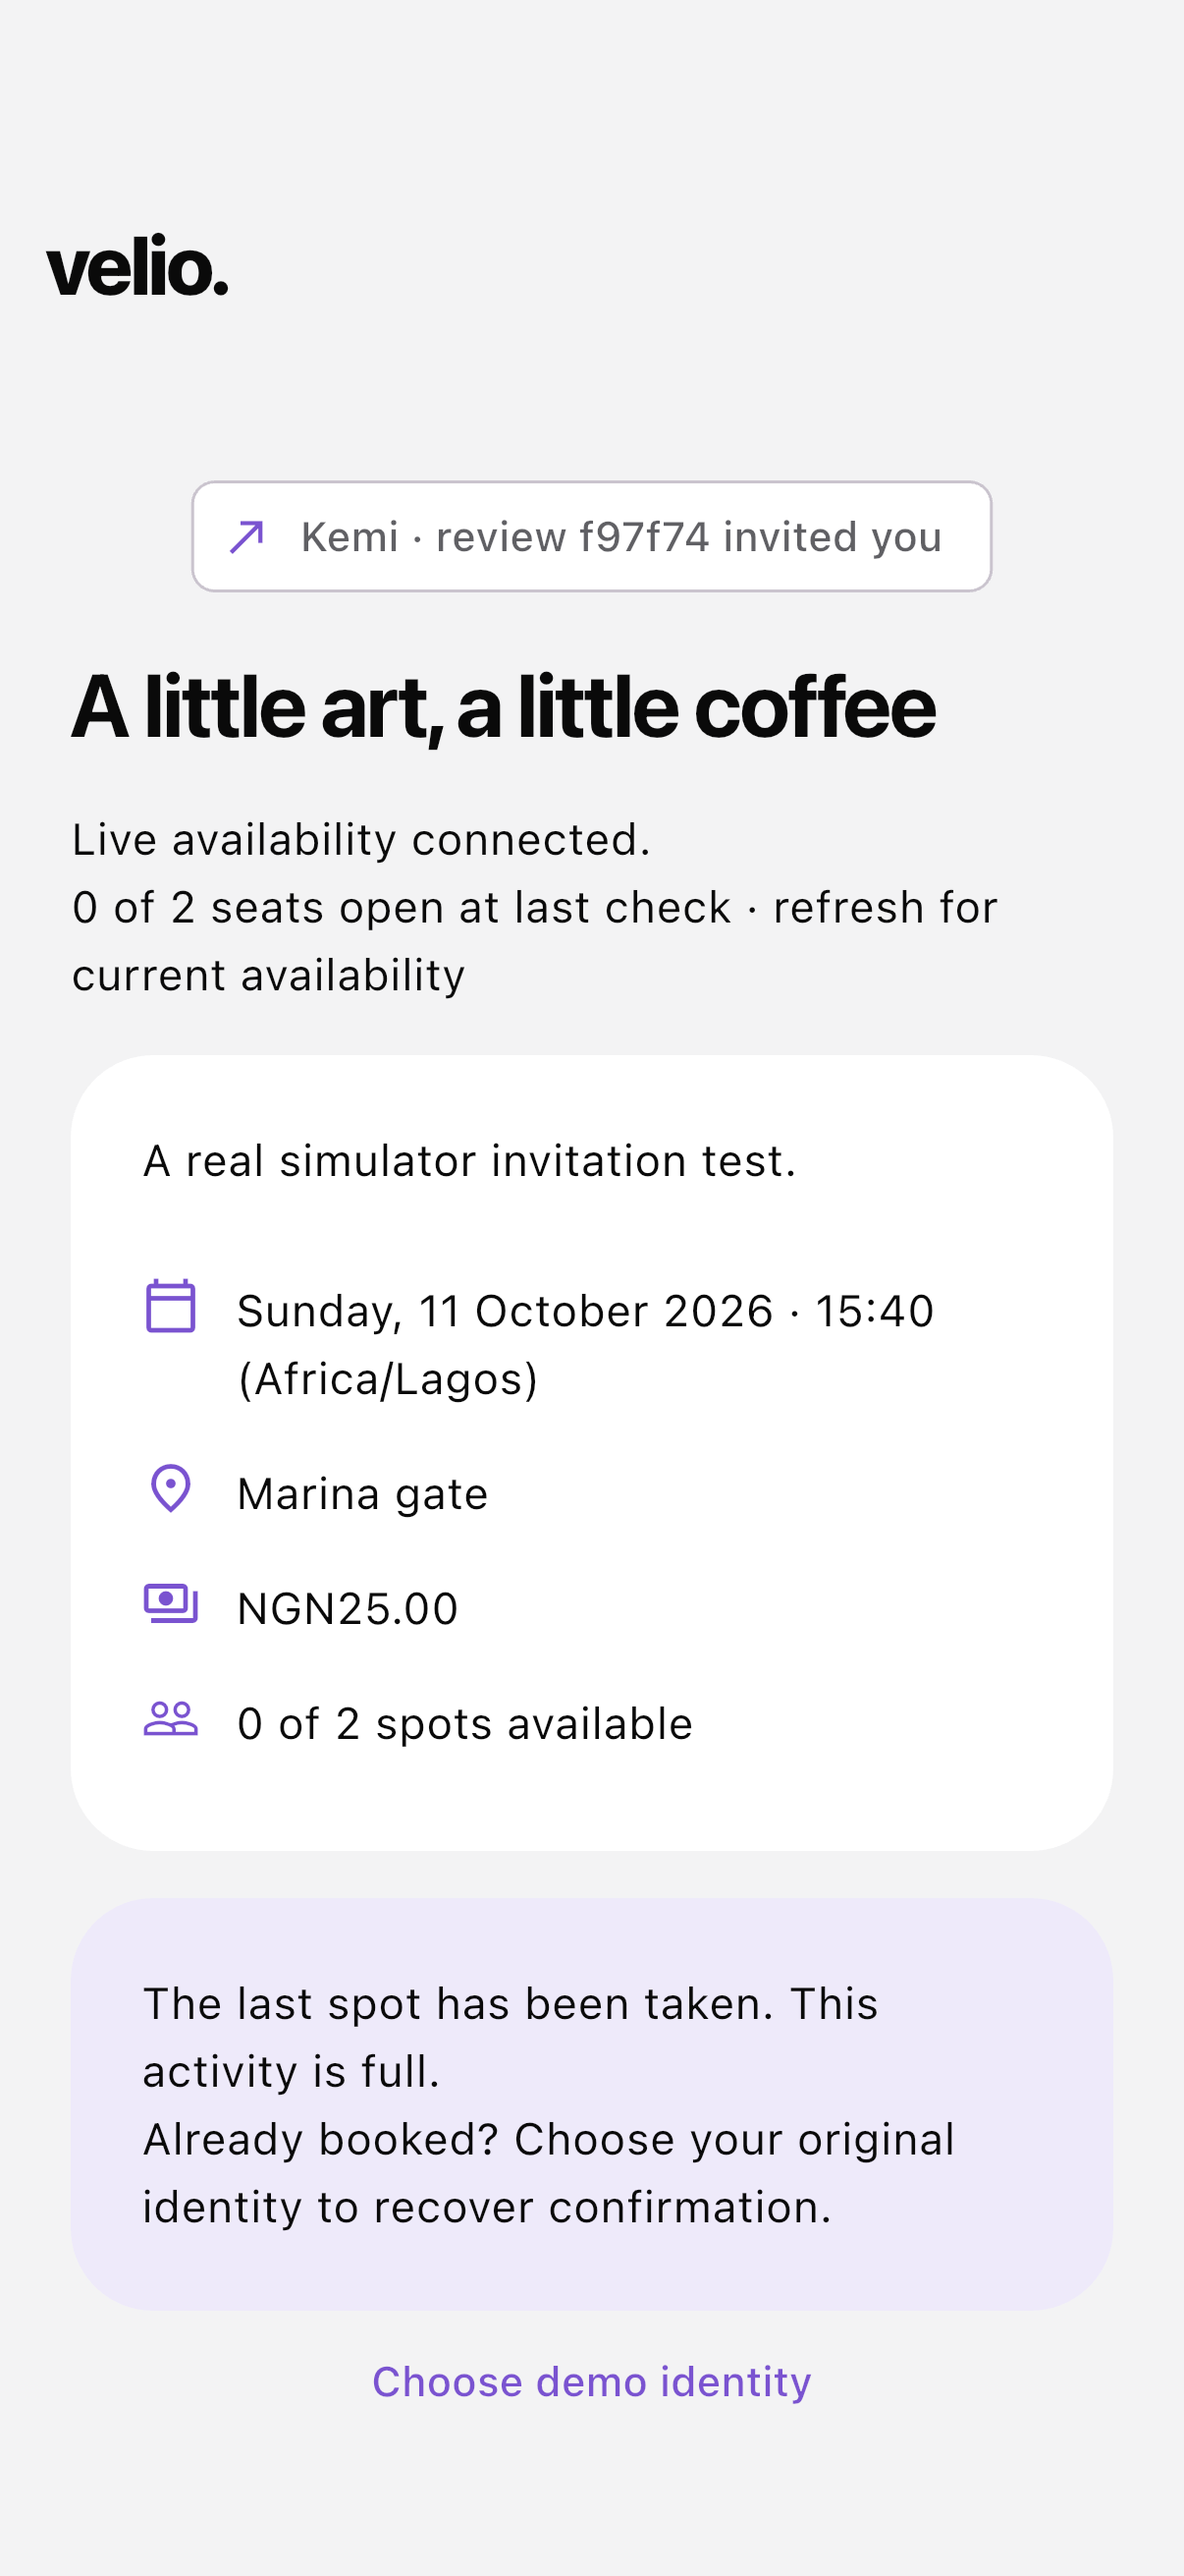
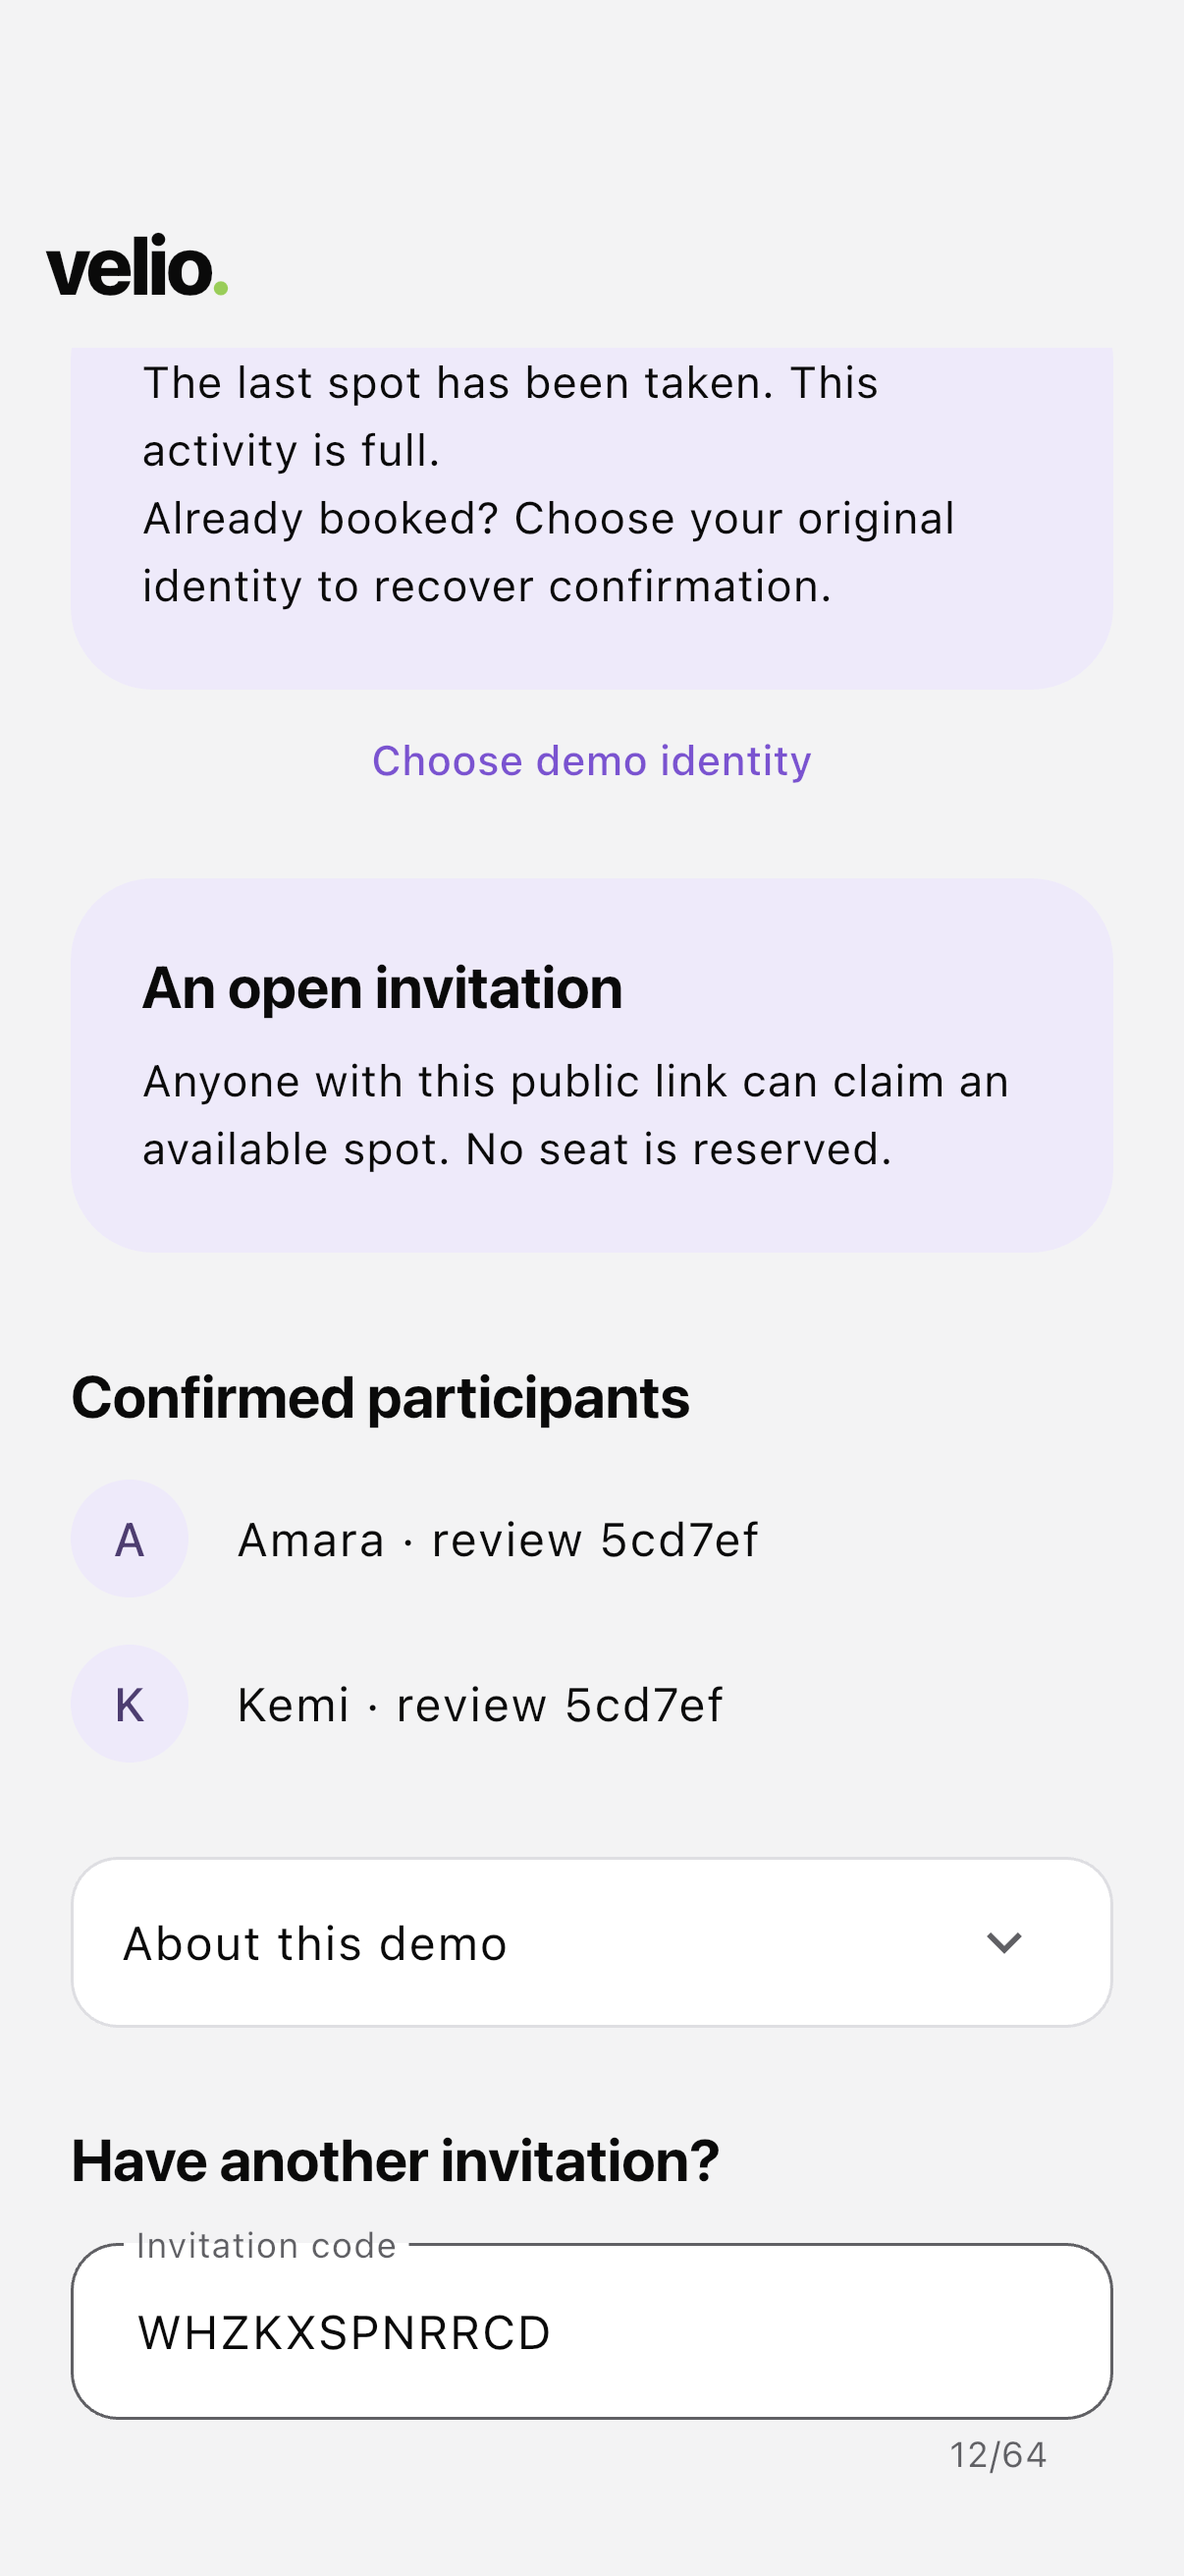
docs: refresh visual review evidence
Record matching wordmark dots, outlined native disclosures and the repeated verification results.

Refs #27

diff --git a/docs/verification/experience-refinement.md b/docs/verification/experience-refinement.md
@@ -2,6 +2,19 @@
 
 Executed 9 October 2026 from main `b06d3de708d16e8990c5410ea0bba00d0671c005`, in dedicated branch `feat/27-velio-experience`. The dated PLANS.md §3/§6 refinement was recorded before UI changes, preserving the original decisions. All 24 supplied PNGs (IMG_0912–IMG_0935) were individually viewed. System fonts, semantic colors and abstract activity art adapt those references without inventing activity photographs, trust scores or community totals.
 
+## Owner visual review follow-up
+
+The web wordmark now uses a small period-sized dot. Flutter keeps its existing period size and uses the same `#89CF43` mint color. Native disclosures, including Booking reference, now have a white surface and rounded outline in collapsed and expanded states, with spacing around the booking reference.
+
+Current captures: [desktop wordmark](experience-refinement/web-logo-refinement.png), [narrow web wordmark](experience-refinement/web-narrow-logo-refinement.png), [native confirmation](experience-refinement/public-confirmed.png), [vouch confirmation](experience-refinement/vouch-confirmed.png), [native entry](experience-refinement/ios-entry.png). The older web task captures below retain the earlier larger dot; these two new web captures supersede that logo treatment. Native journey captures were refreshed from the real simulator run. Entry was captured manually with the surrounding simulator window.
+
+Full `npm run verify` passed again (12 tooling, 141 backend, 108 web and 49 Flutter tests, typechecks, analysis and builds). Both native live/offline invitation journeys passed again. Standards and specification reviews of the cosmetic follow-up found no issues. The collapsed booking-reference outline was visually inspected; both outline states share the same theme shape. Manual expansion could not be completed because simulator interaction became unavailable.
+
+| Follow-up rail | Activity | Journey | Confirmed booking |
+|---|---|---|---|
+| Public | `91d3aaf1-b69a-4c57-bd49-0199d1b0ee4e` | `5cd7ef09-39fd-4fbf-ab6b-b3d6670aa1ba` | `32f12983-387d-453a-96d3-0c1ec453de5c` |
+| Vouch | `0263027d-9012-4bbe-90af-4d595323ad06` | `1649a994-5bed-4b4a-9b52-d7220b36d4d9` | `7e2d7c62-83c8-41db-ba14-3311829654e8` |
+
 ## Executed validation
 
 The three issue seams were used: rendered web UI with API/storage boundaries; Flutter widgets with API/session boundaries; and real local API/PostgreSQL/Redis/live integration. Local API used port 3104, Vite port 5175, PostgreSQL 17.6 and Redis 8.2.1. Native execution used iPhone 17 simulator, iOS 26.2.
